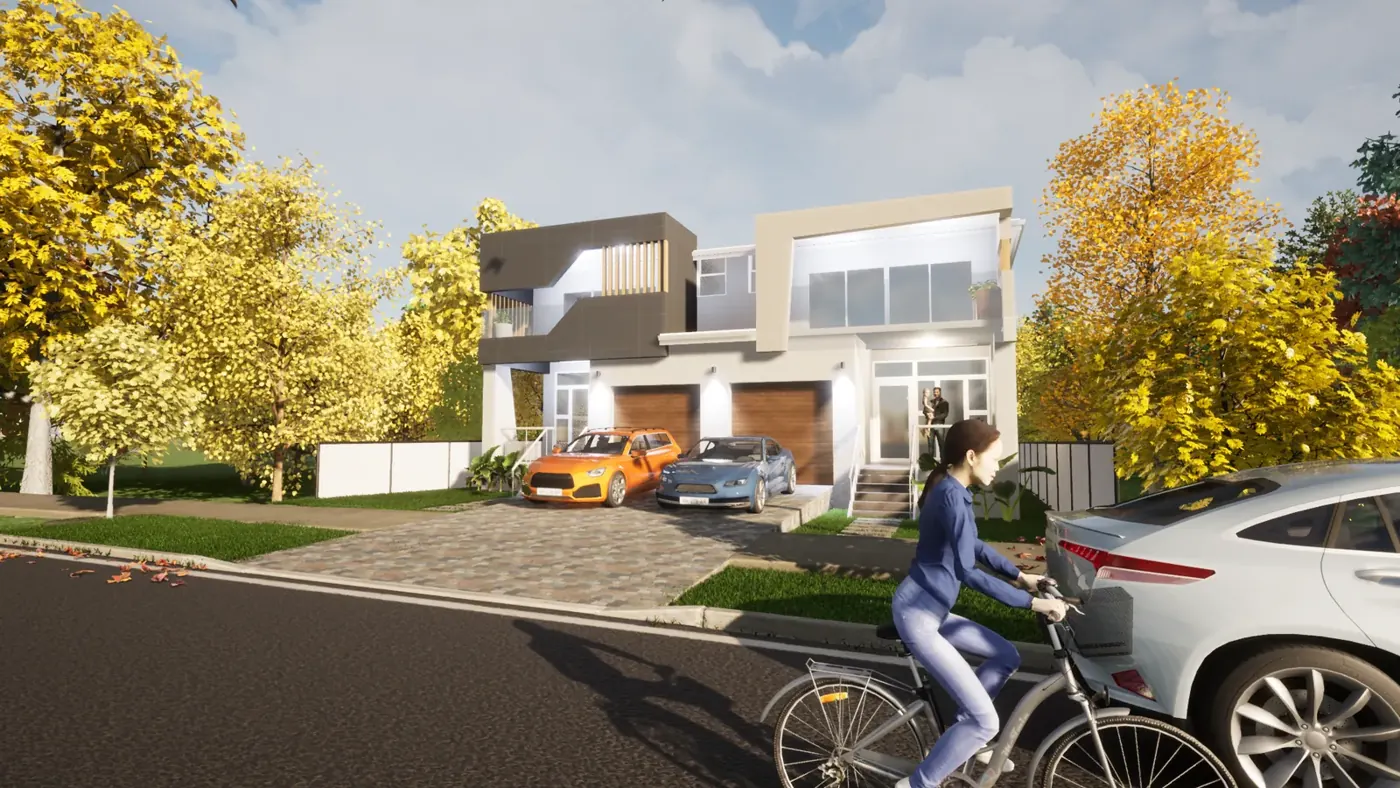
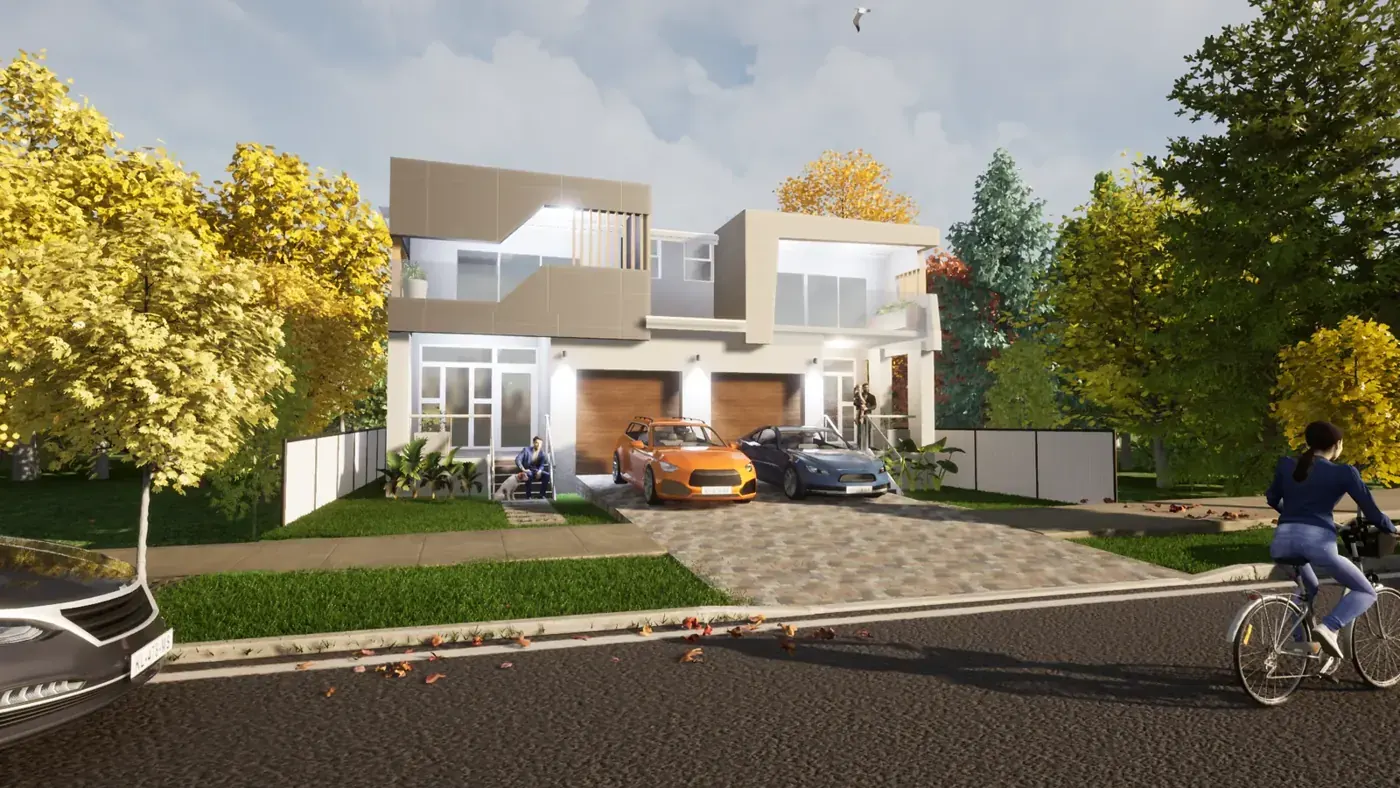
Portfolio: add front-facing and terrace renders to Padstow duplex with pool
Claude-Session: https://claude.ai/code/session_015Zeghi8Wpnz2HogmioLoj9

diff --git a/portfolio/padstow-duplex-pool.html b/portfolio/padstow-duplex-pool.html
@@ -4,10 +4,10 @@
 <meta charset="utf-8">
 <meta name="viewport" content="width=device-width, initial-scale=1, viewport-fit=cover">
 <title>Duplex with pool in Padstow | Rafla Design</title>
-<meta name="description" content="A duplex with a garage to each home, a rear pool and a covered terrace. Designed by Rafla Design. 6 3D renders.">
+<meta name="description" content="A duplex with a garage to each home, a rear pool and a covered terrace. Designed by Rafla Design. 9 3D renders.">
 <link rel="canonical" href="https://rafladesign.com/portfolio/padstow-duplex-pool">
 <meta property="og:title" content="Duplex with pool in Padstow | Rafla Design">
-<meta property="og:description" content="A duplex with a garage to each home, a rear pool and a covered terrace. Designed by Rafla Design. 6 3D renders.">
+<meta property="og:description" content="A duplex with a garage to each home, a rear pool and a covered terrace. Designed by Rafla Design. 9 3D renders.">
 <meta property="og:image" content="https://rafladesign.com/images/og.jpg">
 <meta property="og:type" content="website">
 <meta name="theme-color" content="#0f2e29">
@@ -16,7 +16,7 @@
 <link rel="stylesheet" href="/site.css">
 <script async src="https://www.googletagmanager.com/gtag/js?id=G-8XYZ90SLBC"></script>
 <script>window.dataLayer=window.dataLayer||[];function gtag(){dataLayer.push(arguments);}gtag('js',new Date());gtag('config','G-8XYZ90SLBC');</script>
-<script type="application/ld+json">{"@context":"https://schema.org","@graph":[{"@type":"BreadcrumbList","itemListElement":[{"@type":"ListItem","position":1,"name":"Home","item":"https://rafladesign.com/"},{"@type":"ListItem","position":2,"name":"Portfolio","item":"https://rafladesign.com/portfolio"},{"@type":"ListItem","position":3,"name":"Duplex with pool in Padstow","item":"https://rafladesign.com/portfolio/padstow-duplex-pool"}]},{"@type":"ImageGallery","name":"Duplex with pool in Padstow","url":"https://rafladesign.com/portfolio/padstow-duplex-pool","image":[{"@type":"ImageObject","contentUrl":"https://rafladesign.com/images/padstow-duplex-pool-01.webp","description":"duplex with double garage and rear swimming pool, Padstow"},{"@type":"ImageObject","contentUrl":"https://rafladesign.com/images/padstow-duplex-pool-02.webp","description":"duplex with double garage and rear swimming pool, Padstow"},{"@type":"ImageObject","contentUrl":"https://rafladesign.com/images/padstow-duplex-pool-03.webp","description":"duplex with double garage and rear swimming pool, Padstow"},{"@type":"ImageObject","contentUrl":"https://rafladesign.com/images/padstow-duplex-pool-04.webp","description":"duplex with double garage and rear swimming pool, Padstow"},{"@type":"ImageObject","contentUrl":"https://rafladesign.com/images/padstow-duplex-pool-05.webp","description":"duplex with double garage and rear swimming pool, Padstow"},{"@type":"ImageObject","contentUrl":"https://rafladesign.com/images/padstow-duplex-pool-06.webp","description":"duplex with double garage and rear swimming pool, Padstow"}]}]}</script>
+<script type="application/ld+json">{"@context":"https://schema.org","@graph":[{"@type":"BreadcrumbList","itemListElement":[{"@type":"ListItem","position":1,"name":"Home","item":"https://rafladesign.com/"},{"@type":"ListItem","position":2,"name":"Portfolio","item":"https://rafladesign.com/portfolio"},{"@type":"ListItem","position":3,"name":"Duplex with pool in Padstow","item":"https://rafladesign.com/portfolio/padstow-duplex-pool"}]},{"@type":"ImageGallery","name":"Duplex with pool in Padstow","url":"https://rafladesign.com/portfolio/padstow-duplex-pool","image":[{"@type":"ImageObject","contentUrl":"https://rafladesign.com/images/padstow-duplex-pool-01.webp","description":"duplex with double garage and rear swimming pool, Padstow"},{"@type":"ImageObject","contentUrl":"https://rafladesign.com/images/padstow-duplex-pool-02.webp","description":"duplex with double garage and rear swimming pool, Padstow"},{"@type":"ImageObject","contentUrl":"https://rafladesign.com/images/padstow-duplex-pool-03.webp","description":"duplex with double garage and rear swimming pool, Padstow"},{"@type":"ImageObject","contentUrl":"https://rafladesign.com/images/padstow-duplex-pool-04.webp","description":"duplex with double garage and rear swimming pool, Padstow"},{"@type":"ImageObject","contentUrl":"https://rafladesign.com/images/padstow-duplex-pool-05.webp","description":"duplex with double garage and rear swimming pool, Padstow"},{"@type":"ImageObject","contentUrl":"https://rafladesign.com/images/padstow-duplex-pool-06.webp","description":"duplex with double garage and rear swimming pool, Padstow"},{"@type":"ImageObject","contentUrl":"https://rafladesign.com/images/padstow-duplex-pool-07.webp","description":"duplex with double garage and rear swimming pool, Padstow"},{"@type":"ImageObject","contentUrl":"https://rafladesign.com/images/padstow-duplex-pool-08.webp","description":"duplex with double garage and rear swimming pool, Padstow"},{"@type":"ImageObject","contentUrl":"https://rafladesign.com/images/padstow-duplex-pool-09.webp","description":"duplex with double garage and rear swimming pool, Padstow"}]}]}</script>
 </head>
 <body>
 <a class="skip" href="#main">Skip to content</a>
@@ -44,8 +44,8 @@
 <section class="band band-white">
   <div class="wrap">
     <p class="crumbs"><a href="/portfolio.html">&larr; All projects</a></p>
-    <ul class="gallery"><li><button type="button" class="shot" data-full="/images/padstow-duplex-pool-01.webp" data-alt="Render 1 of 6: duplex with double garage and rear swimming pool, Padstow"><img src="/images/padstow-duplex-pool-01.webp" alt="Render 1 of 6: duplex with double garage and rear swimming pool, Padstow" loading="eager" width="1400" height="788"></button></li><li><button type="button" class="shot" data-full="/images/padstow-duplex-pool-02.webp" data-alt="Render 2 of 6: duplex with double garage and rear swimming pool, Padstow"><img src="/images/padstow-duplex-pool-02.webp" alt="Render 2 of 6: duplex with double garage and rear swimming pool, Padstow" loading="eager" width="1400" height="788"></button></li><li><button type="button" class="shot" data-full="/images/padstow-duplex-pool-03.webp" data-alt="Render 3 of 6: duplex with double garage and rear swimming pool, Padstow"><img src="/images/padstow-duplex-pool-03.webp" alt="Render 3 of 6: duplex with double garage and rear swimming pool, Padstow" loading="lazy" width="1400" height="788"></button></li><li><button type="button" class="shot" data-full="/images/padstow-duplex-pool-04.webp" data-alt="Render 4 of 6: duplex with double garage and rear swimming pool, Padstow"><img src="/images/padstow-duplex-pool-04.webp" alt="Render 4 of 6: duplex with double garage and rear swimming pool, Padstow" loading="lazy" width="1400" height="788"></button></li><li><button type="button" class="shot" data-full="/images/padstow-duplex-pool-05.webp" data-alt="Render 5 of 6: duplex with double garage and rear swimming pool, Padstow"><img src="/images/padstow-duplex-pool-05.webp" alt="Render 5 of 6: duplex with double garage and rear swimming pool, Padstow" loading="lazy" width="1400" height="788"></button></li><li><button type="button" class="shot" data-full="/images/padstow-duplex-pool-06.webp" data-alt="Render 6 of 6: duplex with double garage and rear swimming pool, Padstow"><img src="/images/padstow-duplex-pool-06.webp" alt="Render 6 of 6: duplex with double garage and rear swimming pool, Padstow" loading="lazy" width="1400" height="788"></button></li></ul>
-    <dl class="facts"><div><dt>Suburb</dt><dd>Padstow</dd></div><div><dt>Project</dt><dd>Duplex with pool</dd></div><div><dt>Images</dt><dd>6 3D renders</dd></div></dl>
+    <ul class="gallery"><li><button type="button" class="shot" data-full="/images/padstow-duplex-pool-01.webp" data-alt="Render 1 of 9: duplex with double garage and rear swimming pool, Padstow"><img src="/images/padstow-duplex-pool-01.webp" alt="Render 1 of 9: duplex with double garage and rear swimming pool, Padstow" loading="eager" width="1400" height="788"></button></li><li><button type="button" class="shot" data-full="/images/padstow-duplex-pool-02.webp" data-alt="Render 2 of 9: duplex with double garage and rear swimming pool, Padstow"><img src="/images/padstow-duplex-pool-02.webp" alt="Render 2 of 9: duplex with double garage and rear swimming pool, Padstow" loading="eager" width="1400" height="788"></button></li><li><button type="button" class="shot" data-full="/images/padstow-duplex-pool-03.webp" data-alt="Render 3 of 9: duplex with double garage and rear swimming pool, Padstow"><img src="/images/padstow-duplex-pool-03.webp" alt="Render 3 of 9: duplex with double garage and rear swimming pool, Padstow" loading="lazy" width="1400" height="788"></button></li><li><button type="button" class="shot" data-full="/images/padstow-duplex-pool-04.webp" data-alt="Render 4 of 9: duplex with double garage and rear swimming pool, Padstow"><img src="/images/padstow-duplex-pool-04.webp" alt="Render 4 of 9: duplex with double garage and rear swimming pool, Padstow" loading="lazy" width="1400" height="788"></button></li><li><button type="button" class="shot" data-full="/images/padstow-duplex-pool-05.webp" data-alt="Render 5 of 9: duplex with double garage and rear swimming pool, Padstow"><img src="/images/padstow-duplex-pool-05.webp" alt="Render 5 of 9: duplex with double garage and rear swimming pool, Padstow" loading="lazy" width="1400" height="788"></button></li><li><button type="button" class="shot" data-full="/images/padstow-duplex-pool-06.webp" data-alt="Render 6 of 9: duplex with double garage and rear swimming pool, Padstow"><img src="/images/padstow-duplex-pool-06.webp" alt="Render 6 of 9: duplex with double garage and rear swimming pool, Padstow" loading="lazy" width="1400" height="788"></button></li><li><button type="button" class="shot" data-full="/images/padstow-duplex-pool-07.webp" data-alt="Render 7 of 9: duplex with double garage and rear swimming pool, Padstow"><img src="/images/padstow-duplex-pool-07.webp" alt="Render 7 of 9: duplex with double garage and rear swimming pool, Padstow" loading="lazy" width="1400" height="788"></button></li><li><button type="button" class="shot" data-full="/images/padstow-duplex-pool-08.webp" data-alt="Render 8 of 9: duplex with double garage and rear swimming pool, Padstow"><img src="/images/padstow-duplex-pool-08.webp" alt="Render 8 of 9: duplex with double garage and rear swimming pool, Padstow" loading="lazy" width="1400" height="788"></button></li><li><button type="button" class="shot" data-full="/images/padstow-duplex-pool-09.webp" data-alt="Render 9 of 9: duplex with double garage and rear swimming pool, Padstow"><img src="/images/padstow-duplex-pool-09.webp" alt="Render 9 of 9: duplex with double garage and rear swimming pool, Padstow" loading="lazy" width="1400" height="788"></button></li></ul>
+    <dl class="facts"><div><dt>Suburb</dt><dd>Padstow</dd></div><div><dt>Project</dt><dd>Duplex with pool</dd></div><div><dt>Images</dt><dd>9 3D renders</dd></div></dl>
   </div>
 </section>
 <section class="band">

diff --git a/portfolio.html b/portfolio.html
@@ -83,9 +83,9 @@
   </a>
 </article>
 <article class="work" data-type="duplex">
-  <a class="work-link" href="portfolio/padstow-duplex-pool" aria-label="Duplex with pool in Padstow: view 6 images">
+  <a class="work-link" href="portfolio/padstow-duplex-pool" aria-label="Duplex with pool in Padstow: view 9 images">
     <figure><img src="images/padstow-duplex-pool-thumb.webp" alt="Render of a duplex with double garage and rear swimming pool, Padstow" loading="lazy" width="900" height="600"></figure>
-    <div class="work-meta"><h3>Duplex with pool</h3><span class="tag">Padstow</span><span class="count">6 images</span><p>A duplex with a garage to each home, a rear pool and a covered terrace.</p></div>
+    <div class="work-meta"><h3>Duplex with pool</h3><span class="tag">Padstow</span><span class="count">9 images</span><p>A duplex with a garage to each home, a rear pool and a covered terrace.</p></div>
   </a>
 </article>
 <article class="work" data-type="duplex">
